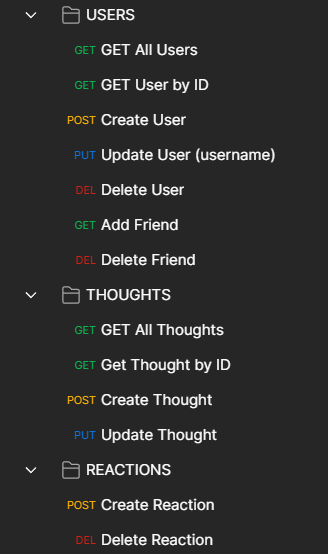
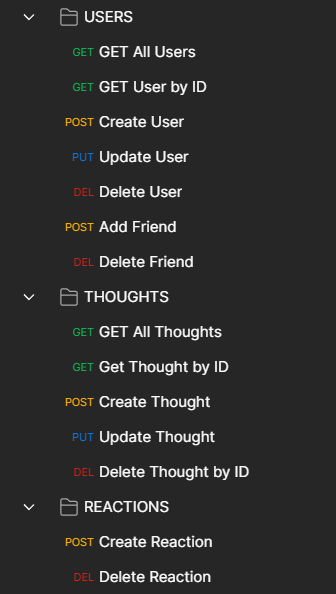
Updated readme and tested all routes/controllers for bugs

diff --git a/controllers/thoughtController.js b/controllers/thoughtController.js
@@ -44,16 +44,28 @@ module.exports = {
         }
     },
 
+    //Delete a thought by ID
+    async deleteThought(req, res) {
+        try {
+            let thought = await Thought.findByIdAndDelete(req.params.thoughtId);
+            res.status(200).json(thought);
+        } catch (error) {
+            res.status(400).json('No user with that ID found!')
+        }
+    },
+
     //Added a reaction to a thought document
     async createReaction(req, res) {
+        if(!req.body.username || !req.body.reactionBody) {
+            return res.status(400).json({message: 'Please provide both a reaction body and username!'});
+        }
         try {
             let updatedThought = await Thought.findOneAndUpdate(
                 {_id: req.params.thoughtId},
-                { $addToSet: {reactions: {reactionBody: req.body.reactionBody, username: req.body.username}}}, {new: true});
+                { $addToSet: {reactions: {reactionBody: req.body.reactionBody, username: req.body.username}}});
                 res.status(200).json(updatedThought);
-                //res.status(200).json({message: 'Reaction added!'});
         } catch (error) {
-            res.status(400).json({message: `No thought documents were found with id: ${req.params.thoughtId}`});
+            res.status(400).json({message: `Please provide the required data to create the reaction!`});
         }
     },
 

diff --git a/routes/api/thoughts.js b/routes/api/thoughts.js
@@ -1,11 +1,9 @@
 const router = require('express').Router();
-const { getAllThoughts, getThoughtById, createThought, updateThoughtById, createReaction, deleteReaction } = require('../../controllers/thoughtController');
+const { getAllThoughts, getThoughtById, createThought, updateThoughtById, deleteThought, createReaction, deleteReaction } = require('../../controllers/thoughtController');
 
 router.route('/').get(getAllThoughts).post(createThought);
-router.route('/:thoughtId').get(getThoughtById).put(updateThoughtById);
+router.route('/:thoughtId').get(getThoughtById).put(updateThoughtById).delete(deleteThought);
 router.route('/:thoughtId/reactions/').post(createReaction);
 router.route('/:thoughtId/reactions/:reactionId').delete(deleteReaction);
-// .delete(deleteReaction);
-// router.route('/:thoughtId/reactions/:reactionId')
 
 module.exports = router;

diff --git a/controllers/userController.js b/controllers/userController.js
@@ -29,14 +29,14 @@ module.exports = {
             let user = await User.create(req.body);
             res.status(200).json(user);
         } catch (error) {
-            res.status(400).json({ message: 'Please provide a valid username'})
+            res.status(400).json({ message: 'Please provide a valid username and email!'})
         }
     },
 
     //Updates a user (username, email)
     async updateUser(req, res) {
         try {
-            let user = await User.findOneAndUpdate({_id: req.params.userId}, {username: req.body.username}, {runValidators: true, new: true});
+            let user = await User.findOneAndUpdate({_id: req.params.userId}, req.body, {runValidators: true, new: true});
             res.status(200).json(user);
         } catch (error) {
             res.status(400).json({message: `No user found with id: ${req.params.userId}`})

diff --git a/test/test_helper.js b/test/test_helper.js
@@ -4,7 +4,7 @@ require('dotenv').config();
 
 //tell mongoose to use es6 implementation of promises
 mongoose.Promise = global.Promise;
-mongoose.connect(process.env.DB_URL); //Connects to database
+mongoose.connect('mongodb://127.0.0.1:27017/socialnetworkDBTesting'); //Connects to local testing database
 
 mongoose.connection
     .once('open', () => console.log('Connected!'))

diff --git a/utils/seed.js b/utils/seed.js
@@ -1,3 +1,6 @@
+//I recommend seeding the database using Postman or Insomnia. This way the thoughts can be directly linked to the users by ID.
+//Seeding here will create thoughts but, will not be associated with any user document.
+
 const mongoose = require('mongoose');
 const { User, Thought } = require('../models');
 require('dotenv').config();

diff --git a/README.md b/README.md
@@ -57,12 +57,21 @@ ___
 To use this RESTful API, you must have MongoDB and Node.js installed on your local machine. You will also need an API testing tool such as Insomnia or Postman. Be sure to follow the installation guidelines before proceeding. Once installation is complete, follow these steps to access the features.
 
 1. Create a .env file to store your local MongoDB database credentials. Make sure your URL looks like the following:
-    - ```DB_URL = 'mongodb://127.0.0.1:27017/socialnetworkDB'```
+```
+DB_URL = 'mongodb://127.0.0.1:27017/socialnetworkDB'
+```
 
 2. Start the server by running the following command:
-    - ```npm start```
+```
+npm start
+```
 
-3. Use your API testing tool (such as Insomnia or Postman) to send requests to the API endpoints. To run on your local web server, be sure to begin each request with ```http://localhost:3001```.
+3. For testing using Mocha, run the following command in your terminal.
+```
+npm run test
+```
+
+4. Use your API testing tool (such as Insomnia or Postman) to send requests to the API endpoints. To run on your local web server, be sure to begin each request with ```http://localhost:3001```.
 If using Postman for testing this API, download this [Social Networking API Postman Collection](/Social-Network-API.postman_collection). *For instructions on how to import a Postman collection. Click [here](https://learning.postman.com/docs/getting-started/importing-and-exporting-data/).*
 
 <img src="./screenshots/postmanlist.png">
